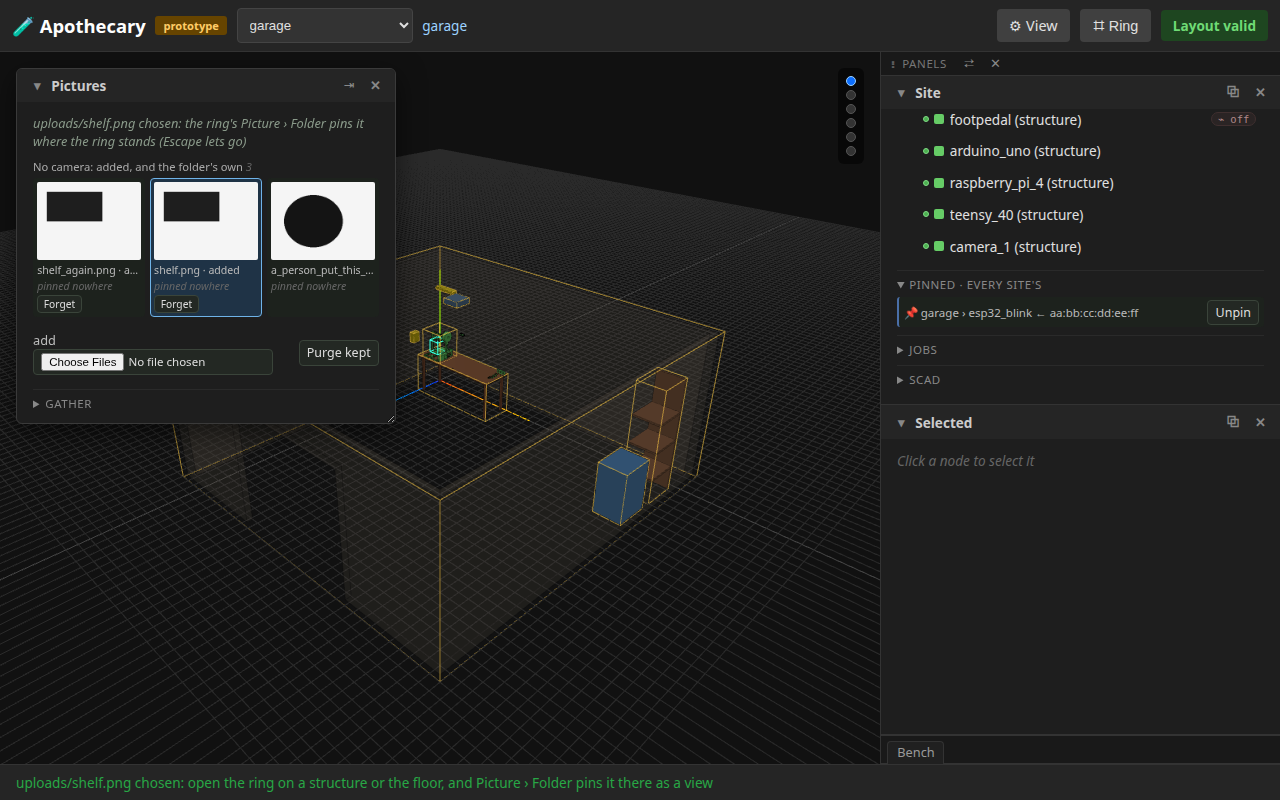
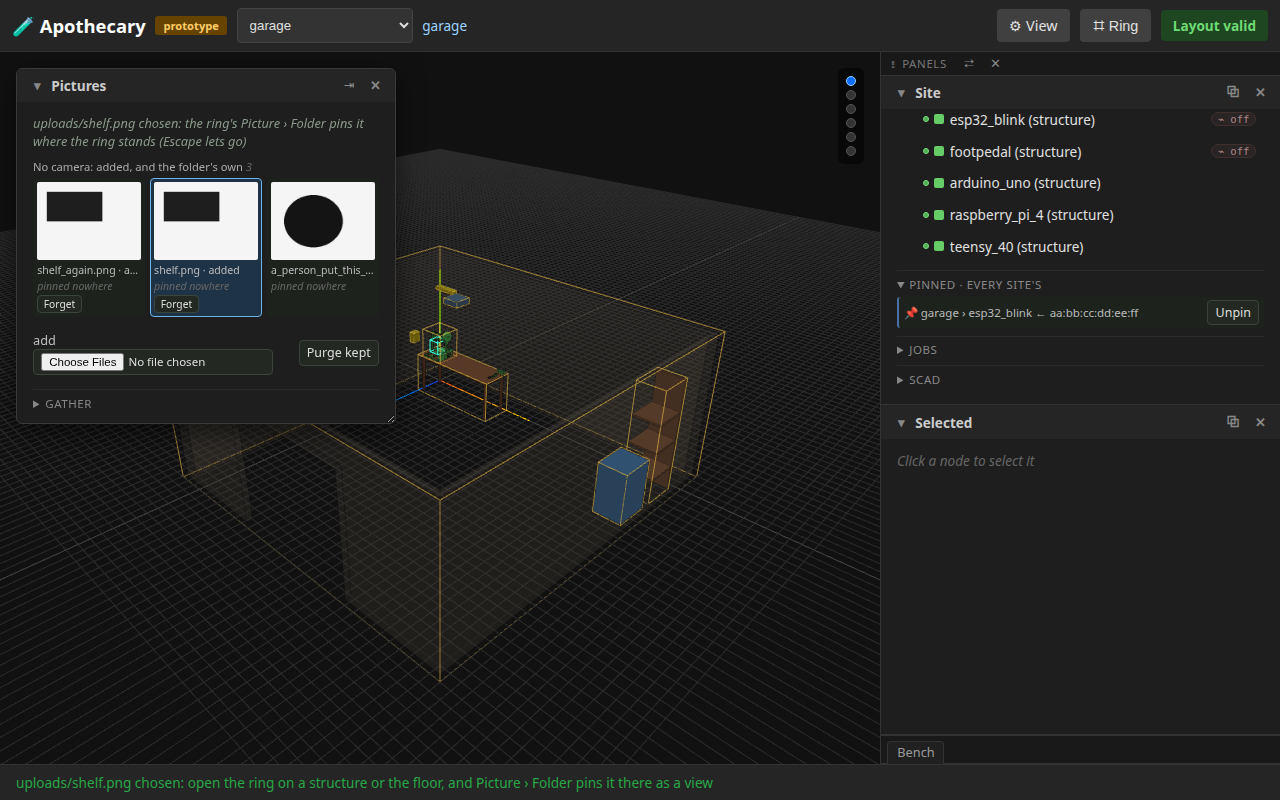
A camera removed from Site's Pinned leaves the tree and the world at once, as one removed from its ring does
Removing a camera from its row in Site's Pinned took it out of the site on
the server, but the page kept camera_1 in Site's tree and its body in the
world until the site was loaded again: walkthrough picture 12-12 showed the
row after the walkthrough's "Removed, it leaves the world". The Pinned
widget's removeCamera asked the page only to fetch the picture marks again,
and dropped the site the DELETE answers with; the ring's Remove applied the
site its answer carried.

Both now go one way, the page's cameraRemoved(site, name, payload): removed
from this site, its live video ends and the answered site is drawn (its
row, body and badge go, and the selection if it was the camera); from
another site only the lists change; Site's Pinned and Pictures list again.
The Pinned widget hands it the DELETE's site; the ring's Remove hands it
the intent's.

test_camera.py::test_a_camera_removed_from_sites_pinned_leaves_the_tree_and_the_world
removes a selected camera from Pinned and holds its row, mesh, badge and
selection gone, with no GET of the site. Before the change it failed (the
row was still there after 5 s); after it, it passes, and so does the ring's
Remove in test_a_camera_added_at_the_bench_takes_pictures_where_it_looks.
The bench walkthrough now asserts the row leaves the tree too, and its run
retook 12-12, which shows the tree without camera_1; the page's words are
unchanged.

Tools: Claude Code, under review; the design review's lead.

Changed region(s): [[0.7188, 0.125, 0.875, 0.3125]]

diff --git a/apothecary/static/widgets/pinned.js b/apothecary/static/widgets/pinned.js
@@ -11,10 +11,11 @@
  * whose site or piece is gone is shown as such (GET /placed says so).
  *
  * mountPinned(root, { base, world, log }) renders into root; `world` is what the
- * page offers: siteName(), changed(site) (something pinned in that site was taken
- * back), unpinned(site, path) (a board's pin). log(text, kind) is the page's
- * status bar; kind "bad" is a refusal. The list is fetched when it mounts and
- * after each take-back; load() fetches it again.
+ * page offers: siteName(), cameraRemoved(site, name, payload) (a camera removed, with
+ * the site the server answered with, or null when its site is gone), changed(site)
+ * (a view pinned in that site was taken back), unpinned(site, path) (a board's pin).
+ * log(text, kind) is the page's status bar; kind "bad" is a refusal. The list is
+ * fetched when it mounts and after each take-back; load() fetches it again.
  */
 
 const MARKUP = `
@@ -67,10 +68,12 @@ export function mountPinned(root, { base = "", world = null, log = null } = {}) 
     }
 
     // Each take-back names its own site: nothing here switches the site on screen.
+    // A camera is a part of its site: the answer carries the site without it, which the
+    // page draws as it does after the camera's own ring's Remove.
     async function removeCamera(site, name) {
-        await api(`/sites/${encodeURIComponent(site)}/cameras/${encodeURIComponent(name)}`, { method: "DELETE" });
+        const answer = await api(`/sites/${encodeURIComponent(site)}/cameras/${encodeURIComponent(name)}`, { method: "DELETE" });
         say(`${site} › ${name} removed; the pictures it took stay`);
-        if (world && world.changed) await world.changed(site);
+        if (world && world.cameraRemoved) await world.cameraRemoved(site, name, answer.site || null);
     }
     async function unpinView(site, id) {
         await api(`/sites/${encodeURIComponent(site)}/views/${encodeURIComponent(id)}`, { method: "DELETE" });

diff --git a/tests/e2e/test_camera.py b/tests/e2e/test_camera.py
@@ -246,6 +246,56 @@ def test_a_camera_added_at_the_bench_takes_pictures_where_it_looks(
     assert errors == []
 
 
+MESH = (
+    "(n) => { const m = window.fractalViewer.meshByName[n];"
+    " return m ? { visible: m.visible, inScene: !!m.parent } : null; }"
+)
+
+
+@pytest.mark.e2e
+def test_a_camera_removed_from_sites_pinned_leaves_the_tree_and_the_world(
+    page,
+    base_url: str,
+    leaves_garage_as_found,  # noqa: F811
+):
+    """Site's Pinned takes a camera back as its own ring's Remove does: at once, and
+    without the site loaded again, its row leaves Site's tree, its body and its badge
+    leave the world, and it is no longer selected; its pictures stay. The ring's
+    Remove is held to the same by the test above."""
+    errors = []
+    page.on("pageerror", lambda e: errors.append(str(e)))
+    name = _add(page, base_url, "workbench")
+    _open_garage(page, base_url)
+    _select(page, name)
+    row = page.locator(f"#contents-list .contents-item[data-path='{name}']")
+    badge = page.locator(f".world-badge.camera-mark[data-camera='{name}']")
+    expect(badge).to_be_visible(timeout=5000)
+    assert page.evaluate(MESH, name) == {"visible": True, "inScene": True}
+    url = page.url
+    loads = []
+    page.on(
+        "request",
+        lambda r: loads.append(r.url) if r.url.split("?")[0].endswith("/sites/garage") else None,
+    )
+
+    pinned = page.locator(".panel[data-panel='site'] #site-pinned")
+    pinned.locator("summary").click()
+    camera_row = pinned.locator(".pin-row.camera", has_text=f"garage › {name}")
+    expect(camera_row).to_have_count(1, timeout=5000)
+    camera_row.locator(".pinned-camera-remove").click()
+    _said(page, f"garage › {name} removed; the pictures it took stay")
+
+    expect(row).to_have_count(0, timeout=5000)
+    expect(badge).to_have_count(0, timeout=5000)
+    assert page.evaluate(MESH, name) is None
+    assert page.evaluate("() => window.fractalViewer.selectedName") is None
+    expect(page.locator("#selected-body")).to_contain_text("Click a node to select it")
+    expect(pinned.locator("#pinned-list")).to_contain_text("none pinned")
+    assert page.request.get(f"{base_url}/sites/garage/cameras/{name}").status == 404
+    assert page.url == url and loads == [], loads
+    assert errors == []
+
+
 def _drag(page, kind: str, degrees: list) -> None:
     """A press on the handle at the first of ``degrees``, moved through the rest, let go."""
     points = [page.evaluate(HANDLE_AT, [kind, d]) for d in degrees]

diff --git a/tests/e2e/test_docs_bench_walkthrough.py b/tests/e2e/test_docs_bench_walkthrough.py
@@ -359,6 +359,7 @@ def test_the_bench_as_it_is(bench, walkthrough, tmp_path):
     pinned.locator("summary").click()
     placed.locator(".pinned-camera-remove").click()
     expect(badge).to_have_count(0, timeout=5000)
+    expect(page.locator("#contents-list .contents-item[data-path='camera_1']")).to_have_count(0)
     expect(pinned.locator("#pinned-list")).to_contain_text("none pinned")
     assert page.request.get(f"{base_url}/sites/garage/attached").json()["cameras"] == []
     story.says(
